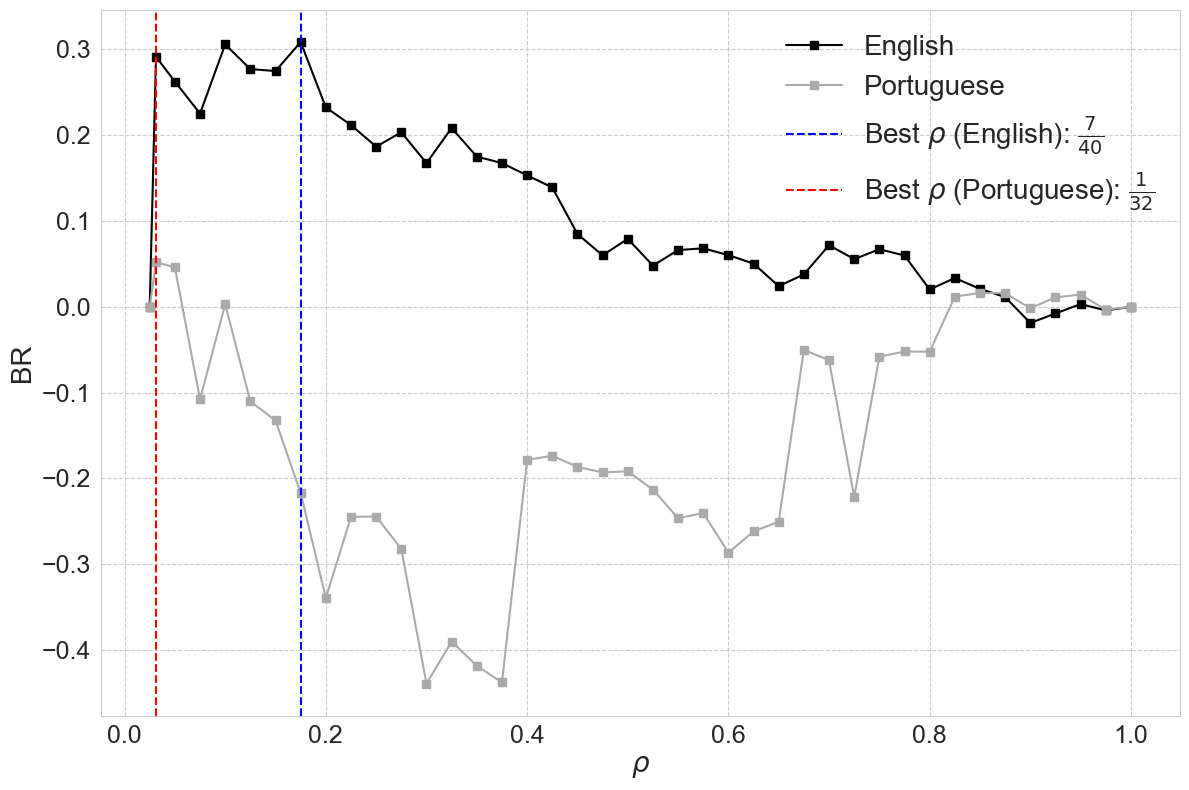
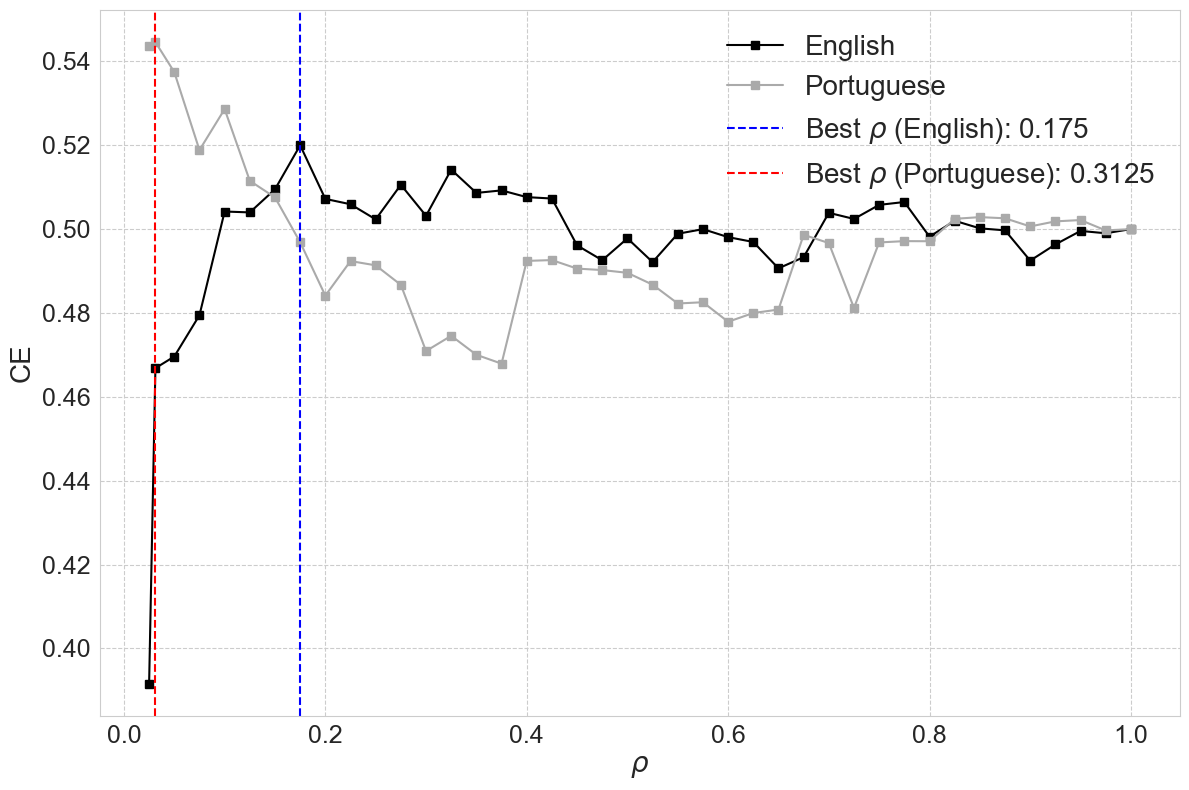
update

diff --git a/main.py b/main.py
@@ -12,41 +12,38 @@ sns.set_style("whitegrid")
 def main():
     work = 'republic'
     files = {
-        'en': {'morris': f'results\{work}\en\morris.csv'},
-        'pt': {'morris': f'results\{work}\pt\morris.csv'},
+        'en': {'morris': f'results\{work}\en\morris.csv', 'fixed': f'results\{work}\en\\fixed.csv', 'cms': f'results\{work}\en\cms.csv', 'lossy': f'results\{work}\en\lossy.csv'},
+        'pt': {'morris': f'results\{work}\pt\morris.csv', 'fixed': f'results\{work}\pt\\fixed.csv', 'cms': f'results\{work}\pt\cms.csv', 'lossy': f'results\{work}\pt\lossy.csv'}
     }
 
     p = {'en': '#000', 'pt': '#aaa'}
 
-    en_df = pd.read_csv(files['en']['morris'])
-    pt_df = pd.read_csv(files['pt']['morris'])
+    alg = 'morris'
+
+    en_df = pd.read_csv(files['en'][alg])
+    pt_df = pd.read_csv(files['pt'][alg])
 
     p_values = en_df['alpha']
+    en_total_bits_required = en_df['BR']
+    pt_total_bits_required = pt_df['BR']
     en_total_bits_saved = en_df['BS']
     pt_total_bits_saved = pt_df['BS']
     en_mean_relative_error = en_df['mean_relative_error']
     pt_mean_relative_error = pt_df['mean_relative_error']
-
-    scaler = MinMaxScaler()
-    en_total_bits_saved_normalized = scaler.fit_transform(en_total_bits_saved.values.reshape(-1, 1))
-    pt_total_bits_saved_normalized = scaler.fit_transform(pt_total_bits_saved.values.reshape(-1, 1))
-    en_mean_relative_error_normalized = scaler.fit_transform(en_mean_relative_error.values.reshape(-1, 1))
-    pt_mean_relative_error_normalized = scaler.fit_transform(pt_mean_relative_error.values.reshape(-1, 1))
+    
+    alpha = 0.5
 
     en_composite_score = (
-        en_total_bits_saved_normalized - en_mean_relative_error_normalized
+        alpha * en_total_bits_saved + (1 - en_mean_relative_error) * (1 - alpha)
     )
     pt_composite_score = (
-        pt_total_bits_saved_normalized - pt_mean_relative_error_normalized
+        alpha *pt_total_bits_saved + (1 - pt_mean_relative_error) * (1 - alpha)
     )
+
     
-    # Plot the results
     plt.figure(figsize=(12, 8))
-    # color with s-
     plt.plot(p_values, en_composite_score, label='English', color=p['en'], marker='s')
     plt.plot(p_values, pt_composite_score, label='Portuguese', color=p['pt'], marker='s')#
-    # line for best p for each language
-# Vertical lines for the best ρ for each language
     
     max_en_composite_score = np.max(en_composite_score)
     max_pt_composite_score = np.max(pt_composite_score)
@@ -56,11 +53,21 @@ def main():
     
     best_rho_en = p_values[np.argmax(en_composite_score)]
     best_rho_pt = p_values[np.argmax(pt_composite_score)]
-    plt.axvline(x=best_rho_en, color='blue', linestyle='--', label=r'Best $\alpha$ (English): $\frac{4}{5}$')
-    plt.axvline(x=best_rho_pt, color='red', linestyle='--', label=r'Best $\alpha$ (Portuguese): 1')
+
+    print(f"Best alpha for English: {best_rho_en:.4f}")
+    print(f"Best alpha for Portuguese: {best_rho_pt:.4f}")
+
+    print(f"Bits saved for English with best alpha: {en_total_bits_saved[np.argmax(en_composite_score)]:.4f}")
+    print(f"Bits saved for Portuguese with best alpha: {pt_total_bits_saved[np.argmax(pt_composite_score)]:.4f}")
+
+    print(f"Mean relative error for English with best alpha: {en_mean_relative_error[np.argmax(en_composite_score)]:.4f}")
+    print(f"Mean relative error for Portuguese with best alpha: {pt_mean_relative_error[np.argmax(pt_composite_score)]:.4f}")
+
+    plt.axvline(x=best_rho_en, color='blue', linestyle='--', label=r'Best $\alpha$ (English): 12')
+    plt.axvline(x=best_rho_pt, color='red', linestyle='--', label=r'Best $\alpha$ (Portuguese): 14')
 
     plt.xlabel(r"$\alpha$", fontsize=20)
-    plt.ylabel("BR", fontsize=20)
+    plt.ylabel("CE", fontsize=20)
     plt.grid(linestyle='--')
     plt.legend(loc='best', frameon=False, fontsize=20)
     plt.tick_params(axis="both", which="major", labelsize=18)
